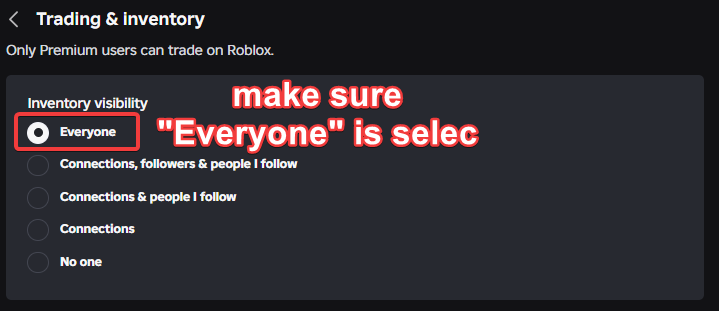
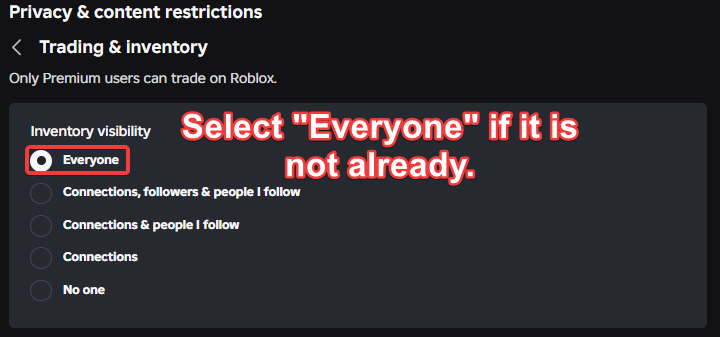
fix: fix grammar mistake in screenshot + add bolding

diff --git a/new-inventory-requirement.md b/new-inventory-requirement.md
@@ -7,11 +7,11 @@
 
 [Due to a Roblox privacy update related to badges:](https://devforum.roblox.com/t/upcoming-breaking-change-to-checkuserbadgesasync-userhasbadgeasync-and-badges-web-apis/4438920) You will be required to make your inventory public in order for your TowerStats progress to load correctly.
 
-1. To make your inventory public, find the "Privacy & content restrictions" section of your settings menu.
+1. To make your inventory public, find the **"Privacy & content restrictions"** section of your settings menu.
 
 !asset settings.png
 
-2. Next, head to the "Trading & inventory" section. Make sure the "Everyone" option is selected.
+2. Next, head to the **"Trading & inventory"** section. Make sure the **"Everyone"** option is selected.
 
 !asset everyone-option.png
 
